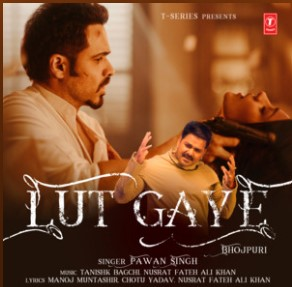
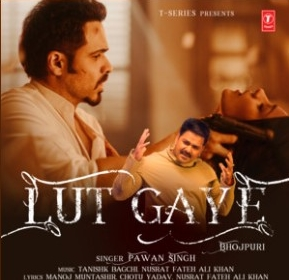
added songs and added some media queires

diff --git a/script.js b/script.js
@@ -65,6 +65,7 @@ masterPlay.addEventListener('click', () => {
         audioElement.pause();
         masterPlay.classList.remove('fa-circle-pause');
         masterPlay.classList.add('fa-circle-play');
+        makeAllPlays();
     }
 
 })
@@ -102,8 +103,10 @@ Array.from(document.getElementsByClassName('songItemPlay')).forEach((element) =>
         audioElement.play();
         masterPlay.classList.remove('fa-circle-play');
         masterPlay.classList.add('fa-circle-pause');
-        document.getElementsByClassName('songInfo')[0].innerText = songs[songIndex].songName;
-        document.getElementsByClassName('cover')[0].src = songs[songIndex].coverPath;
+        document.getElementById('songInfoBottom').innerText = songs[songIndex].songName;
+        document.getElementById("cover").src = songs[songIndex].coverPath;
+        document.getElementById("cover1").src = songs[songIndex].coverPath;
+        document.getElementById("coverImg").src = songs[songIndex].coverPath;
 
     })
 })
@@ -120,7 +123,10 @@ document.getElementById('next').addEventListener('click', () => {
     audioElement.play();
     masterPlay.classList.remove('fa-circle-play');
     masterPlay.classList.add('fa-circle-pause');
-    document.getElementsByClassName('songInfo')[0].innerText = songs[songIndex].songName;
+    document.getElementById('songInfoBottom').innerText = songs[songIndex].songName;
+    document.getElementById("cover").src = songs[songIndex].coverPath;
+    document.getElementById("cover1").src = songs[songIndex].coverPath;
+    document.getElementById("coverImg").src = songs[songIndex].coverPath;
 
 })
 document.getElementById('previous').addEventListener('click', () => {
@@ -134,5 +140,8 @@ document.getElementById('previous').addEventListener('click', () => {
     audioElement.play();
     masterPlay.classList.remove('fa-circle-play');
     masterPlay.classList.add('fa-circle-pause');
-    document.getElementsByClassName('songInfo')[0].innerText = songs[songIndex].songName;
+    document.getElementById('songInfoBottom').innerText = songs[songIndex].songName;
+    document.getElementById("cover").src = songs[songIndex].coverPath;
+    document.getElementById("cover1").src = songs[songIndex].coverPath;
+    document.getElementById("coverImg").src = songs[songIndex].coverPath;
 })

diff --git a/index.html b/index.html
@@ -19,7 +19,13 @@
     </nav>
     <div class="container">
         <div class="songList">
-            <h1>Best of Pawan Singh's</h1>
+            <div class="uppercover">
+                <h1>Best of Pawan Singh's</h1>
+                <div class="cover1">
+                    <img id="cover1" src="img/bg 2.png" alt="">
+                </div>
+            </div>
+
             <div class="songItemContainer">
 
 
@@ -96,9 +102,8 @@
             </div>
         </div>
         <div class="cover">
-            <img src="img/bg 2.png" alt="">
+            <img id="cover" src="img/bg 2.png" alt="">
         </div>
-        <div class="songBanner"></div>
     </div>
     <div class="bottom">
         <input type="range" name="range" id="myProgressBar" value="0" min="0" max="100">
@@ -108,7 +113,7 @@
             <i id="next" class="fa-solid  fa-2x fa-forward-step"></i>
         </div>
         <div class="songInfo">
-            <img id="coverImg" src="cover/Yaad Aati Nahin  Pawan Singh.jpg" alt="cover"> <span> Yaad Aati nahin -Pawan Singh</span>
+            <img id="coverImg" src="cover/Yaad Aati Nahin  Pawan Singh.jpg" alt="cover"> <span id="songInfoBottom"> Yaad Aati nahin -Pawan Singh</span>
         </div>
         <div id="time"></div>
     </div>

diff --git a/style.css b/style.css
@@ -41,7 +41,7 @@
     }
     
     .container {
-        min-height: 82vh;
+        min-height: 100vh;
         color: white;
         display: flex;
         text-align: left;
@@ -81,12 +81,21 @@
     }
     
     .cover img {
-        width: 30vw;
+        width: 20vw;
         border-radius: 10px;
         position: fixed;
-        top: 16%;
-        left: 60%;
+        top: 25%;
+        left: 70%;
         transform: translate(-50, -50);
+    }
+    
+    .uppercover {
+        display: flex;
+    }
+    
+    .cover1 img {
+        width: 40vw;
+        display: none;
     }
     
     .icons {
@@ -167,6 +176,12 @@
         }
         .songList {
             margin: 10px auto;
+        }
+        .cover1 img {
+            display: block;
+        }
+        .uppercover h1 {
+            margin: auto;
         }
     }
     
